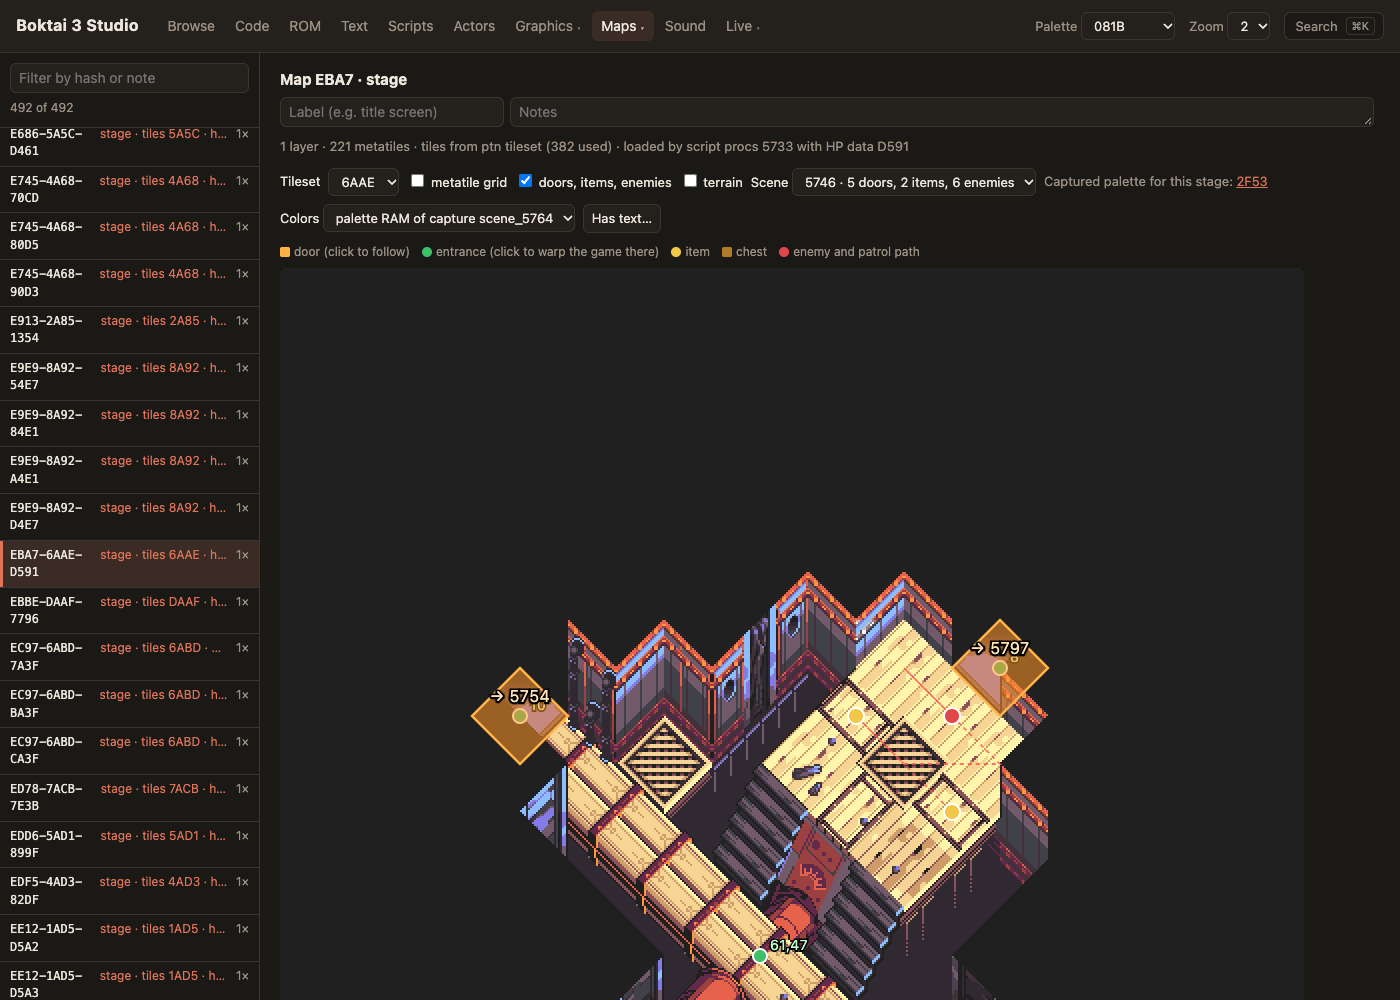
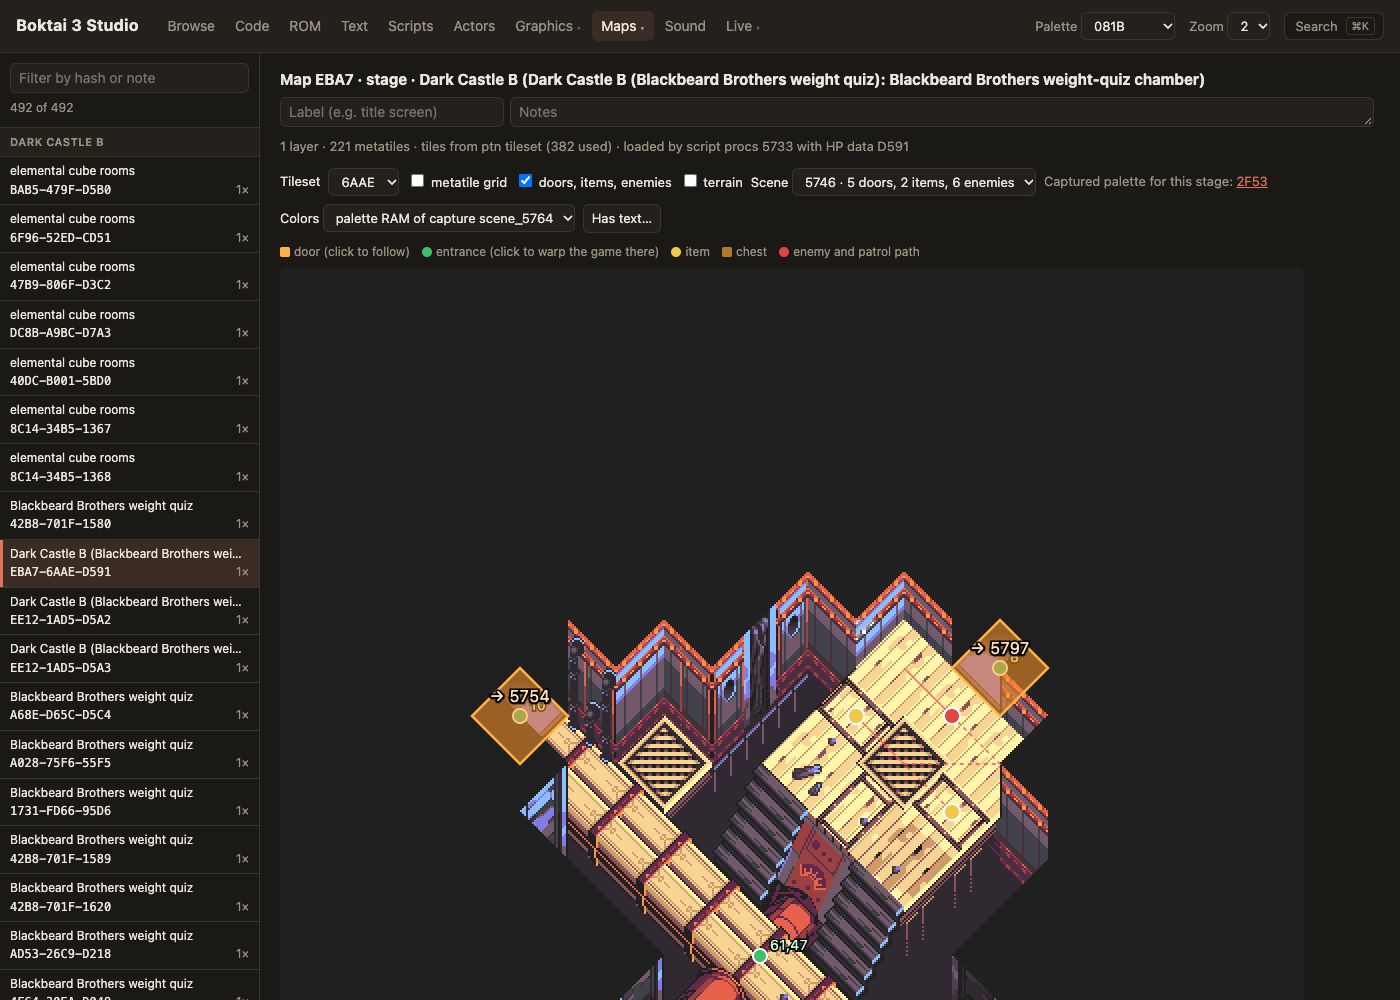
Studio Maps: stages by place and scene name, in story order
The map list was 492 hashes (MAP-TILESET-HP plus a note repeating the
tileset and HP). Stages are now grouped under the place their scenes are
in (tools/studio/places.py), places in story order, each named by its
first scene's label ("Gun Del Sol lesson"), and the map's heading says
where it is. A row with a name puts it on its own line, in every
Graphics list.

Changed region(s): [[0.0, 0.124, 0.1843, 1.0], [0.3071, 0.062, 0.86, 0.093]]

diff --git a/tools/studio/gfx.html b/tools/studio/gfx.html
@@ -36,6 +36,9 @@ main { display: grid; grid-template-columns: 260px 1fr; height: calc(100vh - 53p
 .row:hover { background: var(--sel); }
 .row.on { background: var(--sel); box-shadow: inset 3px 0 var(--accent); }
 .row code { font-size: 12px; }
+/* a row with a name: the name on its own line, the key and notes under it */
+.row { flex-wrap: wrap; row-gap: 1px; }
+.row .lab { flex-basis: 100%; order: -1; overflow: hidden; text-overflow: ellipsis; white-space: nowrap; }
 .row .n { color: var(--muted); font-size: 12px; margin-left: auto; }
 .row .note { color: var(--accent); font-size: 12px; overflow: hidden; text-overflow: ellipsis; white-space: nowrap; }
 #view { overflow: auto; padding: 16px 20px; min-width: 0; }
@@ -129,7 +132,7 @@ async function boot() {
 // Notes (data/notes.csv) per tab: kind and key of the selected item.
 const NOTE_KIND = { sprites: 'spr', big: 'big', maps: 'map', palettes: 'pal', tiles: 'tiles', data: 'res' };
 const noteKeyOf = key => tab === 'maps' ? key.split('-')[0] : key;
-const labelOf = i => NOTE_KIND[tab] && noteOf(NOTE_KIND[tab], noteKeyOf(i.key))?.label;
+const labelOf = i => (NOTE_KIND[tab] && noteOf(NOTE_KIND[tab], noteKeyOf(i.key))?.label) || i.place;
 // labels of a package's frames, for searching ("Healing Potion" finds 5D04)
 const frameLabels = i => (tab === 'sprites' || tab === 'big') ? Object.values(NOTES_DB).filter(n => n.kind === (tab === 'big' ? 'bigframe' : 'sprframe') && n.key.startsWith(i.key + '/')).map(n => n.label).concat(tab === 'sprites' ? Object.entries(ITEM_FRAMES).filter(([k]) => k.startsWith(i.key + '/')).flatMap(([, l]) => l.map(x => x.name + ' ' + x.jp)) : []).join(' ') : '';
 // ?bare=1 (with embed): only the picture, for pages that embed a map
@@ -151,12 +154,12 @@ function route() {
 }
 function renderList() {
   const q = $('q').value.trim().toUpperCase();
-  const hits = items.filter(i => !q || i.key.includes(q) || (i.note || '').toUpperCase().includes(q) || (labelOf(i) || '').toUpperCase().includes(q) || frameLabels(i).toUpperCase().includes(q));
+  const hits = items.filter(i => !q || i.key.includes(q) || (i.note || '').toUpperCase().includes(q) || (i.group || '').toUpperCase().includes(q) || (labelOf(i) || '').toUpperCase().includes(q) || frameLabels(i).toUpperCase().includes(q));
   $('count').textContent = `${hits.length} of ${items.length}`;
   let group = null;
   $('list').replaceChildren(...hits.flatMap(i => {
     const d = document.createElement('div'), out = [d];
-    if (i.group && i.group !== group && typeof TILE_GROUPS !== 'undefined') {
+    if (i.group && i.group !== group) {
       group = i.group;
       const g = document.createElement('div'); g.className = 'ghead'; g.textContent = TILE_GROUPS[group] || group;
       out.unshift(g);
@@ -546,10 +549,33 @@ views.maps = {
     await loadPtn();
     if (!stageList) stageList = await fetch('/api/stages').then(r => r.json());
     await loadStageMeta();
+    // each stage under the place its scenes are in (tools/studio/places.py), in story order
+    const W = await fetch('/api/areas').then(r => r.json()).catch(() => null);
+    const firstScene = {}, where = {};
+    for (const x of stageMeta || []) {
+      const k = stageKey(x.stage); if (!k) continue;
+      if (firstScene[k] == null || x.scene < firstScene[k]) {
+        firstScene[k] = x.scene;
+        const a = W?.areas[W.scene_area[x.scene]];
+        const sl = W?.scenes[x.scene]?.label;  // the scene's own label is the most specific
+        where[k] = a && { place: a.place || 'Unlabeled areas', detail: sl || a.detail || (a.place ? '' : `area ${a.area}`) };
+      }
+    }
     const staged = new Set(stageList.map(s => s.map));
+    const stages = stageList.map(s => {
+      const key = `${s.map}-${s.tileset}-${s.hp}`, w = where[key];
+      // no note: the key is MAP-TILESET-HP already
+      return { key, note: '', n: s.procs.length + '×', stage: s,
+               group: w?.place || 'Stages no scene loads', place: w?.detail || '', order: firstScene[key] ?? 1e9 };
+    });
+    // a place's stages stay together, the places in the order the story reaches them
+    const placeOrder = {};
+    (W?.places || []).forEach((p, i) => { placeOrder[p.name] = i; });
+    for (const it of stages) placeOrder[it.group] ??= 1e6 + (it.group === 'Unlabeled areas' ? 0 : 1);
+    stages.sort((a, b) => placeOrder[a.group] - placeOrder[b.group] || a.group.localeCompare(b.group) || a.order - b.order);
     items = [
-      ...stageList.map(s => ({ key: `${s.map}-${s.tileset}-${s.hp}`, note: `stage · tiles ${s.tileset} · hp ${s.hp}`, n: s.procs.length + '×', stage: s })),
-      ...(index.map || []).filter(([h]) => !staged.has(h)).map(([h, n]) => ({ key: h, note: 'map', n: (n / 1024).toFixed(0) + ' KB' })),
+      ...stages,
+      ...(index.map || []).filter(([h]) => !staged.has(h)).map(([h, n]) => ({ key: h, note: 'map', n: (n / 1024).toFixed(0) + ' KB', group: 'Maps without a stage' })),
     ];
   },
   async show(key) {
@@ -558,7 +584,7 @@ views.maps = {
     const own = m.tiles !== 0;
     const tsList = Object.keys(ptn.sets).sort();
     const savedTs = localStore('mapts.' + mh);
-    v.innerHTML = `<h2>Map ${mh}${st ? ` · stage` : ''}</h2>
+    v.innerHTML = `<h2>Map ${mh}${st ? ` · stage` : ''}${it?.group && st ? ` · ${esc(it.group)}${it.place ? ' (' + esc(it.place) + ')' : ''}` : ''}</h2>
       <div class="meta">${m.count} layer${m.count > 1 ? 's' : ''} · ${m.nmeta} metatiles · ${own ? m.ntiles + ' own tiles' : 'tiles from ptn tileset (' + m.ntiles + ' used)'}${st ? ` · loaded by script procs ${st.procs.join(', ')} with HP data ${st.hp}` : ''}</div>
       <div class="controls">
         ${m.count > 1 ? 'Layer <select id="lay"><option value="-1">all, layer 0 in front</option>' + m.ents.map((e, i) => `<option value="${i}">${i}: ${e.hash} (${e.w}×${e.h})</option>`).join('') + '</select>' : ''}
